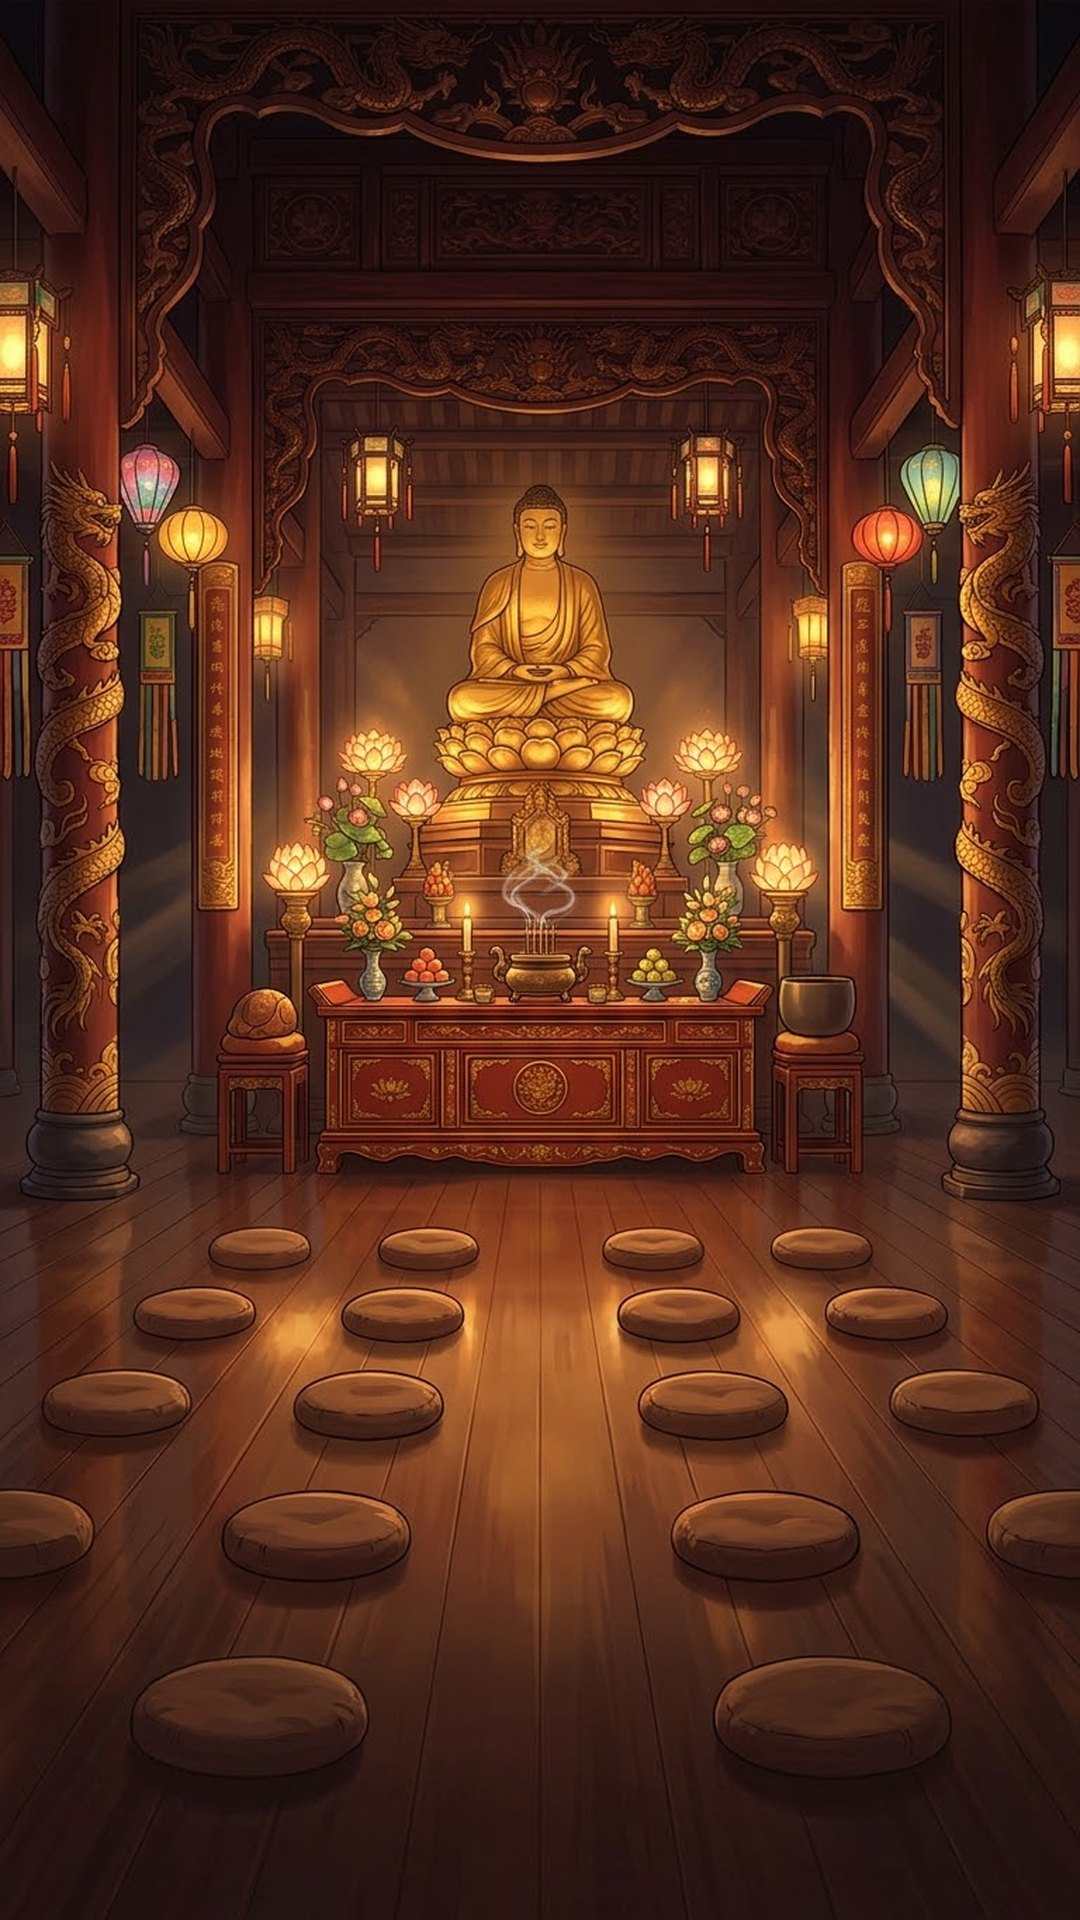
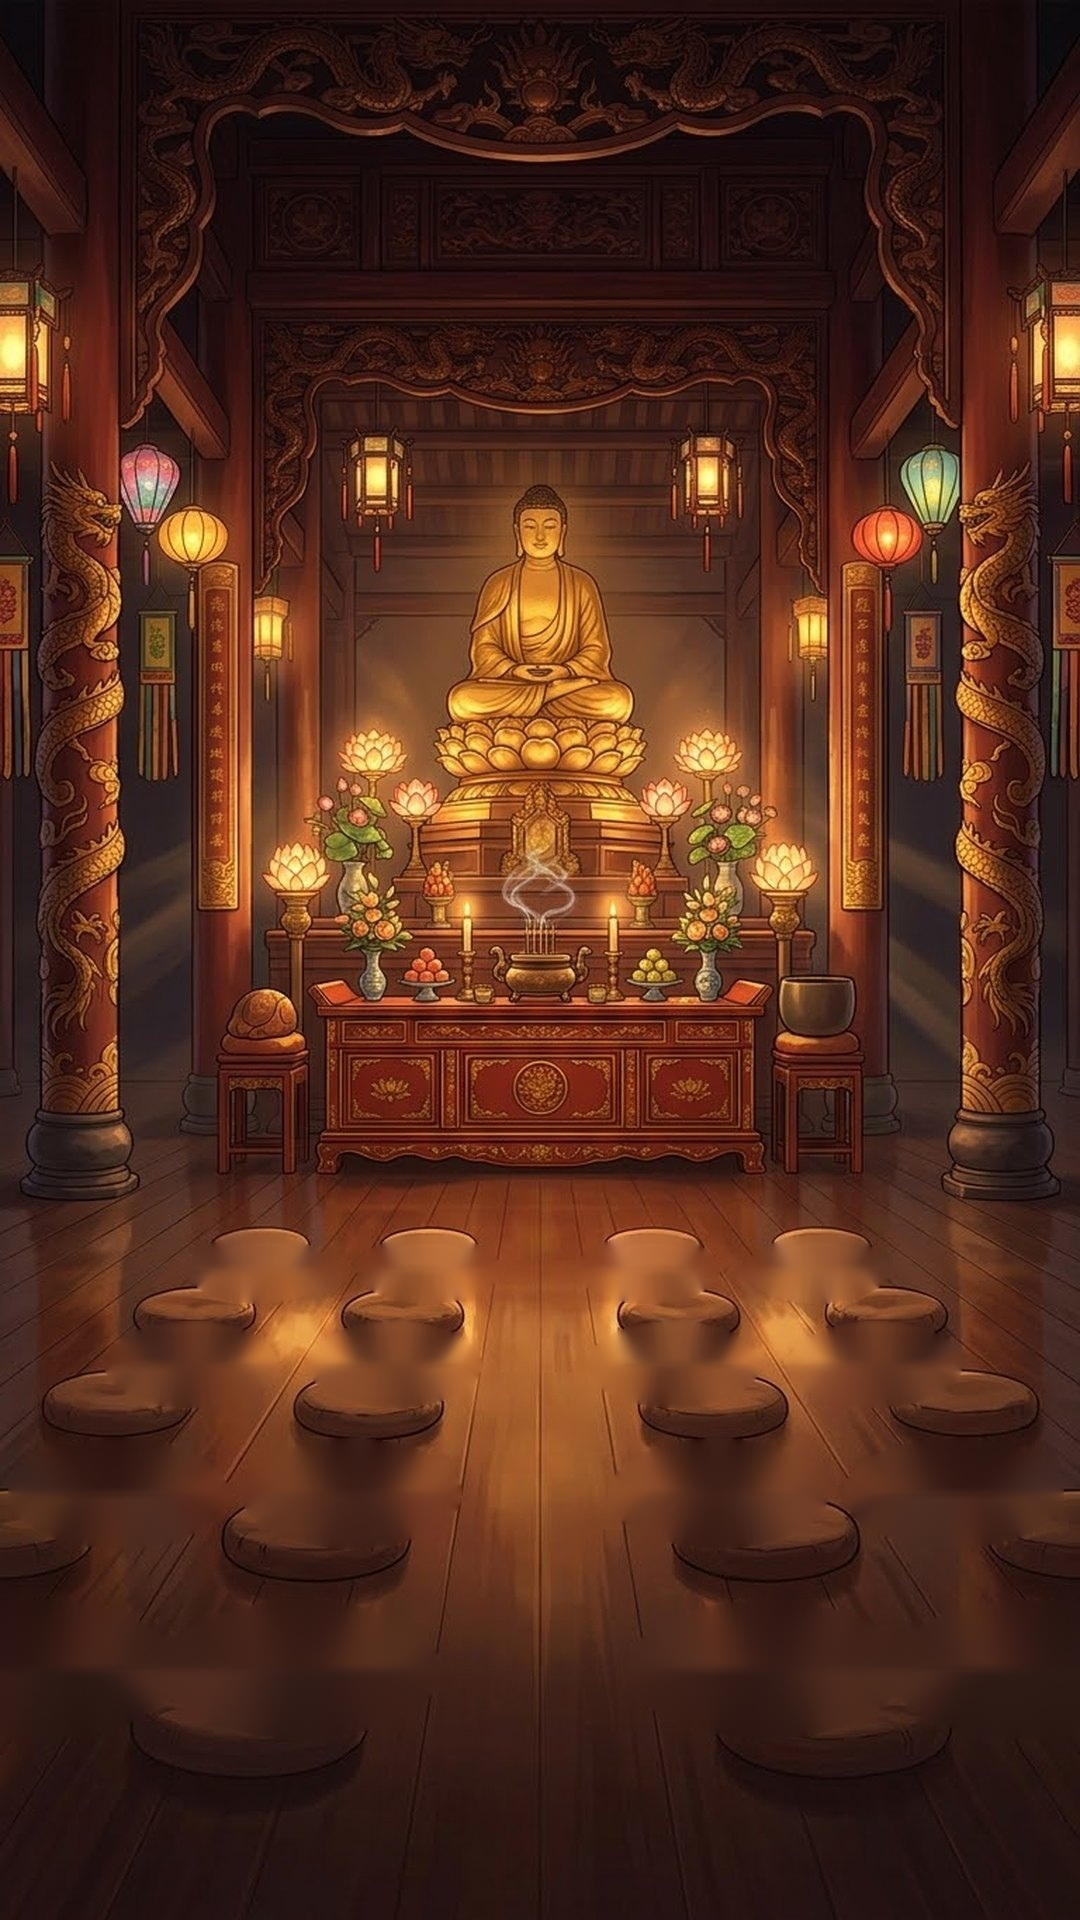
feat: clean cushions from temple floor and add instant real-time template background selector

diff --git a/public/admin.js b/public/admin.js
@@ -47,6 +47,10 @@ const tabMeta = {
     title: '📢 Admin Chủ Động Phát Thoại Ra Chánh Điện',
     desc: 'Phát giọng đọc AI (TTS) và hiển thị thẻ lời thoại của Thầy Trụ Trì ra luồng trực tiếp'
   },
+  'tab-templates': {
+    title: '🖼 Chọn Template Background Chánh Điện',
+    desc: 'Chuyển đổi hình nền Chánh Điện trực tiếp theo thời gian thực (real-time) không cần tải lại trang'
+  },
   'tab-temple': {
     title: '⚙ Cài Đặt Chung',
     desc: 'Tùy chỉnh tên chùa, lời tựa, chuông mõ và các bảng hiển thị'
@@ -767,6 +771,7 @@ socket.on('init_state', (data) => {
     renderPrayersTable(currentConfig.prayers);
   }
   loadMusicList();
+  loadTemplatesList();
 
   if (currentConfig.temple) {
     if (inputTempleName) inputTempleName.value = currentConfig.temple.name || 'Chùa Online';
@@ -1225,3 +1230,121 @@ if (btnPreviewSpeech && adminSpeechText) {
     }
   });
 }
+
+// ========================================================
+// 5. QUẢN LÝ & CHỌN TEMPLATE BACKGROUND CHÁNH ĐIỆN
+// ========================================================
+const templatesGrid = document.getElementById('templates-grid');
+const currentTemplateName = document.getElementById('current-template-name');
+const templateSwitchAlert = document.getElementById('template-switch-alert');
+
+async function loadTemplatesList() {
+  if (!templatesGrid) return;
+  try {
+    const res = await fetch('/api/temple/templates');
+    const data = await res.json();
+    if (data.success && Array.isArray(data.templates)) {
+      renderTemplatesGrid(data.templates, data.currentTemplate);
+    }
+  } catch (err) {
+    console.error('Lỗi tải danh sách template:', err);
+  }
+}
+
+function renderTemplatesGrid(templates, currentTemplateId) {
+  if (!templatesGrid) return;
+  templatesGrid.innerHTML = '';
+
+  const activeTpl = templates.find(t => t.id === currentTemplateId) || templates[0];
+  if (currentTemplateName && activeTpl) {
+    currentTemplateName.textContent = activeTpl.name;
+  }
+
+  templates.forEach(tpl => {
+    const isCurrent = tpl.id === currentTemplateId || tpl.isActive;
+    const card = document.createElement('div');
+    card.className = 'template-card';
+    card.style.cssText = `
+      background: rgba(26, 14, 9, 0.95);
+      border: 2px solid ${isCurrent ? '#27ae60' : 'rgba(217, 164, 65, 0.3)'};
+      border-radius: 14px;
+      overflow: hidden;
+      display: flex;
+      flex-direction: column;
+      box-shadow: ${isCurrent ? '0 0 20px rgba(39, 174, 96, 0.4)' : '0 4px 15px rgba(0,0,0,0.5)'};
+      transition: all 0.3s ease;
+    `;
+
+    card.innerHTML = `
+      <div style="position: relative; width: 100%; aspect-ratio: 9/16; background: #0c0705; overflow: hidden;">
+        <img src="${tpl.thumb || tpl.url}" alt="${tpl.name}" style="width: 100%; height: 100%; object-fit: cover; transition: transform 0.4s ease;" loading="lazy">
+        <span style="position: absolute; top: 10px; left: 10px; background: rgba(0,0,0,0.78); color: #ffd700; font-size: 11px; font-weight: bold; padding: 3px 8px; border-radius: 6px; border: 1px solid rgba(255,215,0,0.4);">
+          ${tpl.tag || 'Chánh Điện'}
+        </span>
+        ${isCurrent ? `
+          <span style="position: absolute; top: 10px; right: 10px; background: #27ae60; color: #fff; font-size: 11px; font-weight: bold; padding: 4px 10px; border-radius: 12px; box-shadow: 0 2px 8px rgba(0,0,0,0.4);">
+            ✓ ĐANG LIVE
+          </span>
+        ` : ''}
+      </div>
+      <div style="padding: 14px; flex: 1; display: flex; flex-direction: column; justify-content: space-between;">
+        <div>
+          <h4 style="color: ${isCurrent ? '#2ecc71' : '#ffd700'}; margin: 0 0 6px 0; font-size: 15px;">${tpl.name}</h4>
+          <p style="font-size: 12px; color: #b59a76; margin: 0 0 12px 0; line-height: 1.4;">${tpl.desc}</p>
+        </div>
+        <div>
+          ${isCurrent ? `
+            <button class="btn btn-sm" disabled style="width: 100%; background: #27ae60; border-color: #219653; color: #fff; opacity: 0.9; cursor: default; font-weight: bold;">
+              🟢 Đang Hiển Thị Trên Live
+            </button>
+          ` : `
+            <button class="btn btn-sm btn-primary btn-select-template" data-id="${tpl.id}" data-name="${tpl.name}" style="width: 100%; font-weight: bold;">
+              🎨 Áp Dụng Template Này
+            </button>
+          `}
+        </div>
+      </div>
+    `;
+
+    templatesGrid.appendChild(card);
+  });
+
+  // Gắn sự kiện chọn template
+  document.querySelectorAll('.btn-select-template').forEach(btn => {
+    btn.addEventListener('click', async () => {
+      const templateId = btn.getAttribute('data-id');
+      const name = btn.getAttribute('data-name');
+      if (!templateId) return;
+
+      btn.disabled = true;
+      btn.textContent = '⏳ Đang chuyển cảnh...';
+
+      try {
+        const res = await fetch('/api/temple/template', {
+          method: 'POST',
+          headers: { 'Content-Type': 'application/json' },
+          body: JSON.stringify({ templateId })
+        });
+        const data = await res.json();
+        if (data.success) {
+          if (templateSwitchAlert) {
+            templateSwitchAlert.style.display = 'block';
+            templateSwitchAlert.textContent = `✅ Đã chuyển sang: "${name}" tức thì trên Chánh Điện!`;
+            setTimeout(() => { if (templateSwitchAlert) templateSwitchAlert.style.display = 'none'; }, 4000);
+          }
+          loadTemplatesList();
+        } else {
+          alert('Lỗi đổi template: ' + (data.error || 'Lỗi'));
+        }
+      } catch (err) {
+        alert('Lỗi kết nối: ' + err.message);
+      }
+    });
+  });
+}
+
+socket.on('change_background', (data) => {
+  if (data && data.templateId) {
+    loadTemplatesList();
+  }
+});

diff --git a/server.js b/server.js
@@ -411,6 +411,86 @@ app.delete('/api/music/:fileName', (req, res) => {
 });
 
 // ========================================================
+// QUẢN LÝ TEMPLATE BACKGROUND CHÁNH ĐIỆN
+// ========================================================
+const TEMPLE_TEMPLATES = [
+  {
+    id: 'classic',
+    name: 'Chánh Điện Tam Bảo Hoàng Gia (Mặc định)',
+    tag: 'Bản Chuẩn',
+    desc: 'Tượng Phật vàng tôn nghiêm, bàn thờ hoa đăng, sàn gỗ lim sáng bóng hoàn toàn không đệm.',
+    url: '/assets/template_classic.jpg',
+    thumb: '/assets/thumb_classic.jpg'
+  },
+  {
+    id: 'gold',
+    name: 'Đại Điện Phật Quang Phổ Chiếu',
+    tag: 'Dát Vàng 24K',
+    desc: 'Kim thân Phật Tổ Thích Ca tọa đài sen lớn, ánh hào quang rực rỡ, sàn gỗ thênh thang lộng lẫy.',
+    url: '/assets/template_gold.jpg',
+    thumb: '/assets/thumb_gold.jpg'
+  },
+  {
+    id: 'ancient',
+    name: 'Đại Điện Cổ Tự Hoàng Gia',
+    tag: 'Cổ Kính Trầm Mặc',
+    desc: 'Kiến trúc chùa cổ cột rồng thếp vàng, đèn lồng đỏ ấm áp, đại hồng chung cổ kính.',
+    url: '/assets/template_ancient.jpg',
+    thumb: '/assets/thumb_ancient.jpg'
+  },
+  {
+    id: 'quanam',
+    name: 'Chánh Điện Quán Thế Âm Bồ Tát',
+    tag: 'Thanh Tịnh Thoát Tục',
+    desc: 'Đức Quán Âm Đại Bi ngự tòa sen ngọc bích an lành, thiền đường tịnh thủy thanh tao.',
+    url: '/assets/template_quanam.jpg',
+    thumb: '/assets/thumb_quanam.jpg'
+  }
+];
+
+// Lấy danh sách template
+app.get('/api/temple/templates', (req, res) => {
+  const currentTemplate = appConfig.currentTemplate || 'classic';
+  const templates = TEMPLE_TEMPLATES.map(t => ({
+    ...t,
+    isActive: t.id === currentTemplate
+  }));
+  res.json({
+    success: true,
+    templates,
+    currentTemplate,
+    currentBackground: appConfig.currentBackground || '/assets/template_classic.jpg'
+  });
+});
+
+// Đổi template tức thì mà không cần reload
+app.post('/api/temple/template', (req, res) => {
+  const { templateId } = req.body;
+  if (!templateId) return res.status(400).json({ success: false, error: 'Thiếu templateId' });
+  const t = TEMPLE_TEMPLATES.find(tpl => tpl.id === templateId);
+  if (!t) return res.status(404).json({ success: false, error: 'Template không tồn tại' });
+
+  appConfig.currentTemplate = templateId;
+  appConfig.currentBackground = t.url;
+  saveConfig(appConfig);
+
+  console.log(`[Template] 🖼 Chuyển hình nền Chánh Điện sang: "${t.name}" (${t.url})`);
+
+  io.emit('change_background', {
+    templateId,
+    backgroundUrl: t.url,
+    name: t.name
+  });
+
+  res.json({
+    success: true,
+    message: `Đã đổi hình nền Chánh Điện sang "${t.name}" tức thì!`,
+    currentTemplate: templateId,
+    template: t
+  });
+});
+
+// ========================================================
 // ADMIN CHỦ ĐỘNG GỬI LỜI THOẠI / THÔNG BÁO CHÁNH ĐIỆN
 // ========================================================
 app.post('/api/admin/broadcast-speech', (req, res) => {

diff --git a/public/admin.html b/public/admin.html
@@ -46,6 +46,9 @@
         <button class="nav-item" data-tab="tab-speech">
           <span class="nav-icon">📢</span> Lời Thoại Thầy Trụ Trì
         </button>
+        <button class="nav-item" data-tab="tab-templates">
+          <span class="nav-icon">🖼</span> Chọn Template Chánh Điện
+        </button>
         <button class="nav-item" data-tab="tab-temple">
           <span class="nav-icon">⚙</span> Cài Đặt Chung
         </button>
@@ -636,6 +639,27 @@
               </button>
               <span id="speech-status-msg" style="font-size: 13px; font-weight: bold; color: #00ff88;"></span>
             </div>
+          </div>
+        </div>
+      </section>
+
+      <!-- TAB 10: CHỌN TEMPLATE BACKGROUND CHÁNH ĐIỆN -->
+      <section class="tab-pane" id="tab-templates">
+        <div class="card">
+          <div class="card-header space-between">
+            <div>
+              <h3>🖼 Thư Viện Template Background Chánh Điện</h3>
+              <small class="helper-text">Toàn bộ bồ đoàn trên sàn gỗ đã được xóa sạch. Chọn template bạn muốn và luồng Live Chánh Điện sẽ đổi hình nền ngay tức thì trong 0.1s mà không cần reload trang!</small>
+            </div>
+            <span id="template-active-badge" style="padding: 6px 14px; border-radius: 20px; font-size: 12px; font-weight: bold; background: #27ae60; color: #fff;">
+              🟢 Đang hoạt động: <span id="current-template-name">Chánh Điện Tam Bảo</span>
+            </span>
+          </div>
+          <div class="card-body">
+            <div id="templates-grid" style="display: grid; grid-template-columns: repeat(auto-fill, minmax(260px, 1fr)); gap: 20px; margin-top: 10px;">
+              <!-- Cards rendered dynamically -->
+            </div>
+            <div id="template-switch-alert" style="display: none; margin-top: 20px; padding: 12px 16px; border-radius: 8px; background: rgba(39, 174, 96, 0.2); border: 1px solid #27ae60; color: #2ecc71; font-weight: bold; text-align: center;"></div>
           </div>
         </div>
       </section>

diff --git a/public/app.js b/public/app.js
@@ -1282,6 +1282,12 @@ socket.on('init_state', (data) => {
     config = data.config;
     if (config.temple?.name && templeNameEl) templeNameEl.textContent = config.temple.name;
     if (config.temple?.subTitle && monkStatusEl) monkStatusEl.textContent = '· ' + config.temple.subTitle;
+    if (config.currentBackground) {
+      const bgImg = new Image();
+      bgImg.crossOrigin = 'anonymous';
+      bgImg.src = config.currentBackground;
+      bgImg.onload = () => { A.hall = bgImg; };
+    }
   }
   if (data.username) {
     currentUsername = data.username;
@@ -1326,6 +1332,12 @@ socket.on('config_updated', (newConfig) => {
     config = newConfig;
     if (config.temple?.name && templeNameEl) templeNameEl.textContent = config.temple.name;
     if (config.temple?.subTitle && monkStatusEl) monkStatusEl.textContent = '· ' + config.temple.subTitle;
+    if (config.currentBackground) {
+      const bgImg = new Image();
+      bgImg.crossOrigin = 'anonymous';
+      bgImg.src = config.currentBackground;
+      bgImg.onload = () => { A.hall = bgImg; };
+    }
   }
 });
 
@@ -1559,6 +1571,20 @@ socket.on('load_bulk_devotees', (data) => {
 
   showToast(`🙏 Đã cung thỉnh ${added} phật tử vào Chánh Điện trang nghiêm!`);
   bell(false);
+});
+
+// ─── Đổi Template Background Chánh Điện Tức Thì ───────────────────
+socket.on('change_background', (data) => {
+  if (!data || !data.backgroundUrl) return;
+  console.log('[Template] 🖼 Nhận lệnh đổi nền Chánh Điện:', data.name, data.backgroundUrl);
+  const newImg = new Image();
+  newImg.crossOrigin = 'anonymous';
+  newImg.src = data.backgroundUrl + '?v=' + Date.now();
+  newImg.onload = () => {
+    A.hall = newImg;
+    showToast(`🎨 Chuyển cảnh: ${data.name}`);
+    bell(false);
+  };
 });
 
 socket.on('tiktok_share', (data) => {

diff --git a/public/app.html b/public/app.html
@@ -74,6 +74,6 @@
   </div>
 
   <script src="/socket.io/socket.io.js"></script>
-  <script src="/app.js?v=20261101_01"></script>
+  <script src="/app.js?v=20261101_02"></script>
 </body>
 </html>
